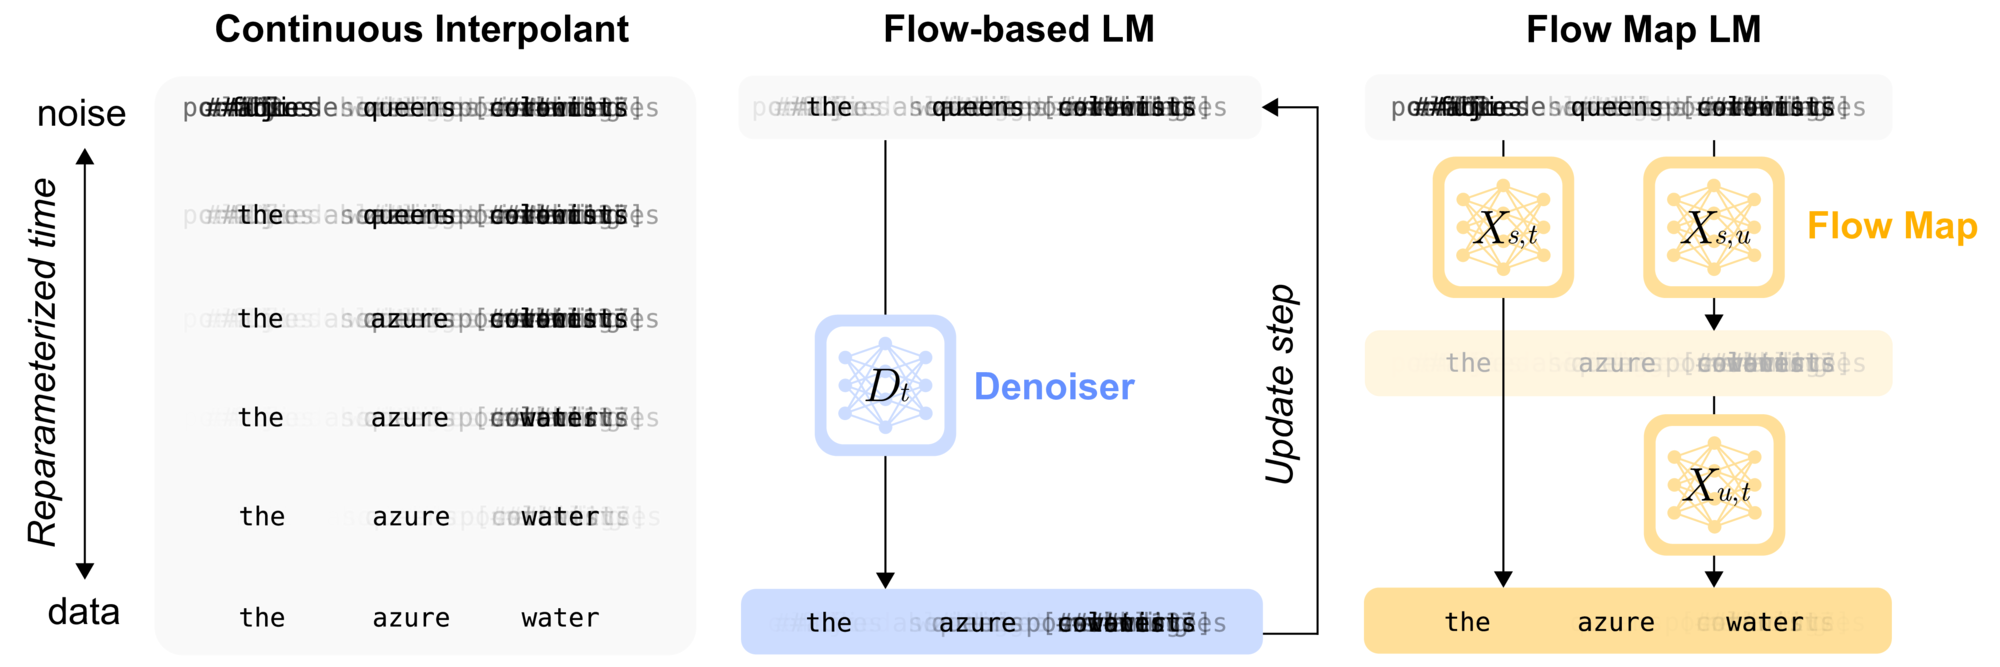
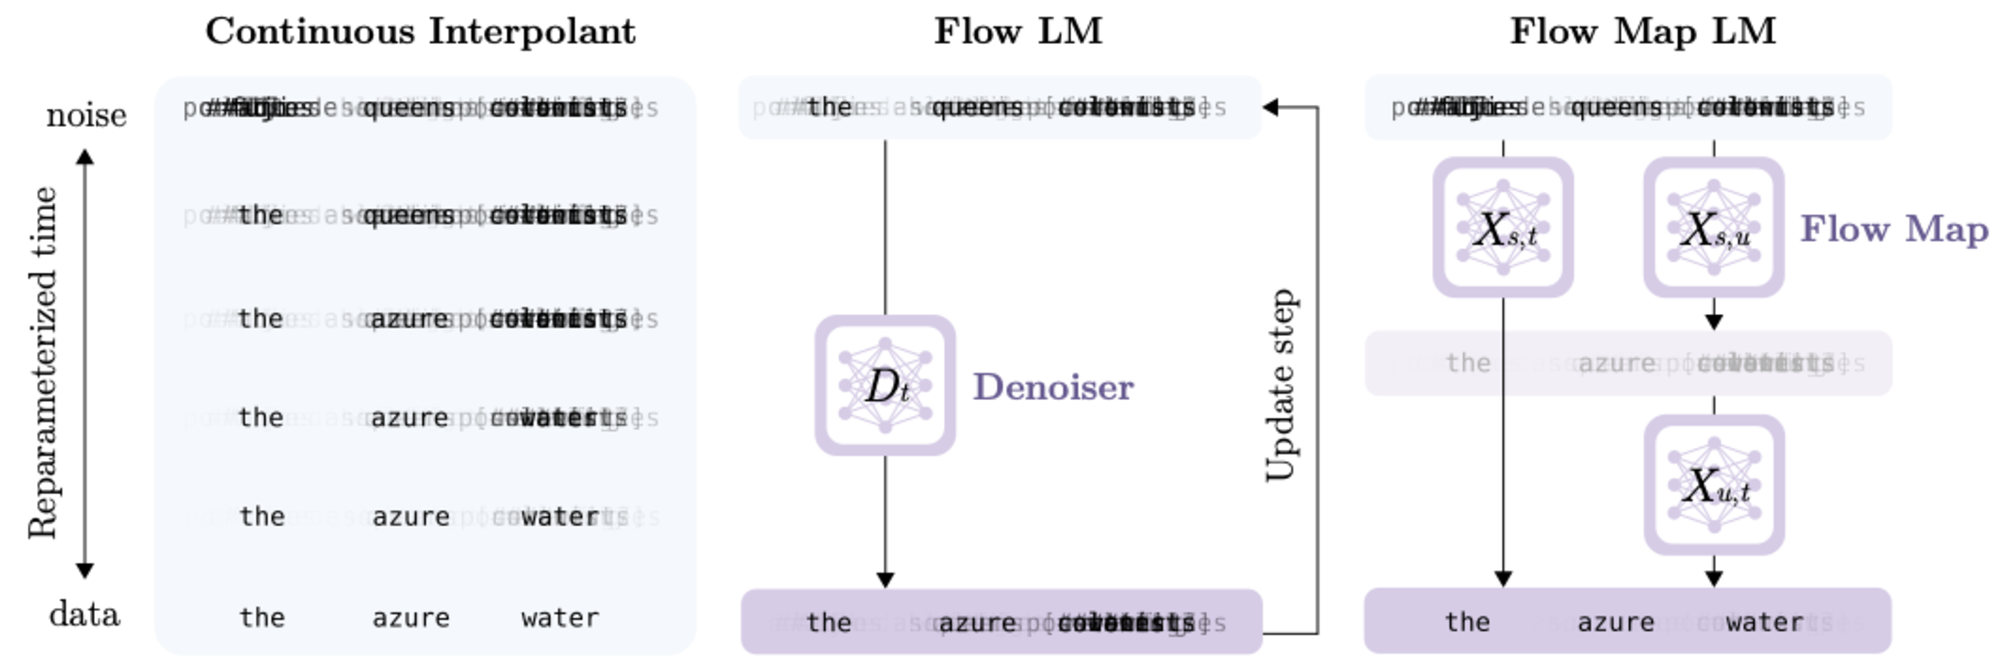
Update Flow Map Language Models entry and lighten sepia background
Rename paper to "Flow Map Language Models", add blog link support
in paper-card template, regenerate thumbnail from new overview
figure (flattened onto white), and lighten the body background
from #f5efe6 to #faf6ed.

diff --git a/_includes/paper-card.html b/_includes/paper-card.html
@@ -45,11 +45,14 @@
       {% elsif p.conference %}
         {% if p.arxiv %} / {% endif %}<a href="{{ p.conference }}" target="_blank" rel="noopener">paper</a>
       {% endif %}
+      {% if p.blog %}
+        {% if p.arxiv or p.journal or p.conference %} / {% endif %}<a href="{{ p.blog }}" target="_blank" rel="noopener">blog</a>
+      {% endif %}
       {% if p.project %}
-        {% if p.arxiv or p.journal or p.conference %} / {% endif %}<a href="{{ p.project }}" target="_blank" rel="noopener">project</a>
+        {% if p.arxiv or p.journal or p.conference or p.blog %} / {% endif %}<a href="{{ p.project }}" target="_blank" rel="noopener">project</a>
       {% endif %}
       {% if p.code %}
-        {% if p.arxiv or p.journal or p.conference or p.project %} / {% endif %}
+        {% if p.arxiv or p.journal or p.conference or p.blog or p.project %} / {% endif %}
         {% if p.code.first %}
           {% comment %}Handle array of code links{% endcomment %}
           {% for code_link in p.code %}
@@ -61,10 +64,10 @@
         {% endif %}
       {% endif %}
       {% if p.video %}
-        {% if p.arxiv or p.journal or p.conference or p.project or p.code %} / {% endif %}<a href="{{ p.video }}" target="_blank" rel="noopener">video</a>
+        {% if p.arxiv or p.journal or p.conference or p.blog or p.project or p.code %} / {% endif %}<a href="{{ p.video }}" target="_blank" rel="noopener">video</a>
       {% endif %}
       {% if p.biorxiv %}
-        {% if p.arxiv or p.journal or p.conference or p.project or p.code or p.video %} / {% endif %}<a href="{{ p.biorxiv }}" target="_blank" rel="noopener">bioRxiv</a>
+        {% if p.arxiv or p.journal or p.conference or p.blog or p.project or p.code or p.video %} / {% endif %}<a href="{{ p.biorxiv }}" target="_blank" rel="noopener">bioRxiv</a>
       {% endif %}
     </div>
 

diff --git a/assets/style.scss b/assets/style.scss
@@ -26,7 +26,7 @@ html {
 }
 
 body {
-  background: #f5efe6;
+  background: #faf6ed;
   font-family: -apple-system, BlinkMacSystemFont, "Segoe UI", Roboto, "Helvetica Neue", Arial, sans-serif;
   color: #404040;
   line-height: 1.7;
